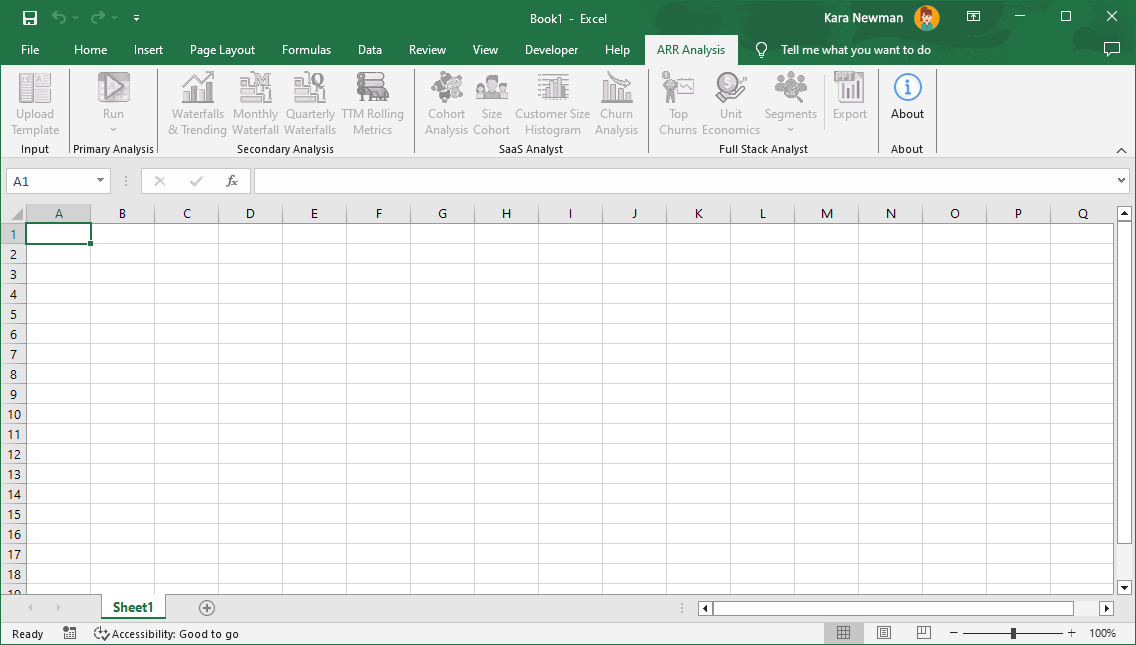
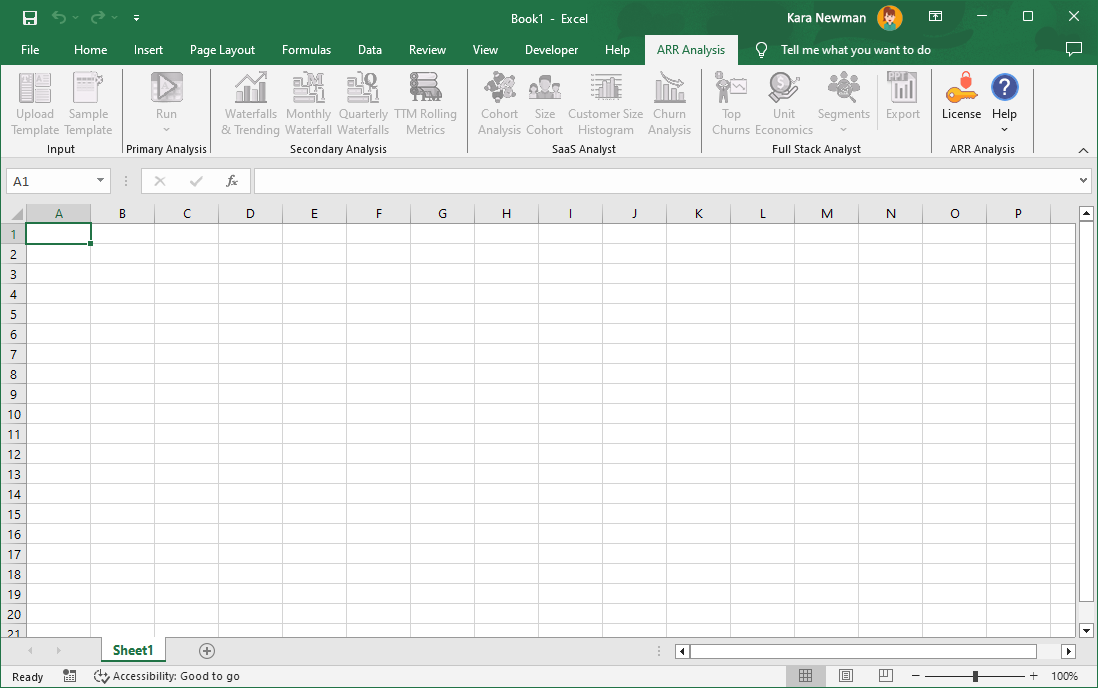
Implemented UsingExcelAddin Help Center page

diff --git a/website/src/components/help-center/zz-pages/UseExcelAddin/index.js b/website/src/components/help-center/zz-pages/UseExcelAddin/index.js
@@ -1,9 +1,299 @@
+'use client';
+
+import Image from 'next/image';
+import useZoomableImage from '@/utils/client/useZoomableImage';
+import { helpPages, HelpPageIndex } from '@/utils/help-pages';
+// Components
+import ImageViewer from '@/components/help-center/ImageViewer';
+import Subtopics from '@/components/help-center/Subtopics';
+// Images
+import imgAddInActivated from  '@/../public/help-center/usage/Excel-Addin-Activated.png';
+import imgInputGroup from  '@/../public/help-center/usage/Input-Group.png';
+import imgSampleTemplateDialog from '@/../public/help-center/usage/Sample-Template-Dialog.png';
+import imgPrimaryAnalysisGroup from '@/../public/help-center/usage/Primary-Analysis-Group.png';
+import imgRunExpanded from '@/../public/help-center/usage/Run-Expanded.png';
+import imgExcelPrimaryAnalysis from '@/../public/help-center/usage/Excel-Primary-Analysis.png';
+import imgSecondaryAnalysisGroup from '@/../public/help-center/usage/Secondary-Analysis-Group.png';
+import imgWaterfallTable from '@/../public/help-center/usage/Waterfall-Table.png';
+import imgExcelSecondaryTTM from '@/../public/help-center/usage/Excel-Secondary-TTM.png';
+import imgExcelSecondaryTtmGraph from '@/../public/help-center/usage/Excel-Secondary-TTM-Graph.png';
+import imgSaaSAnalystGroup from '@/../public/help-center/usage/SaaS-Analyst-Group.png';
+import imgExcelSaaSCohortAnalysis from '@/../public/help-center/usage/Excel-SaaS-Cohort-Analysis.png';
+import imgExcelSaaSSizeCohort from '@/../public/help-center/usage/Excel-SaaS-Size-Cohort.png';
+import imgExcelSaaSCustomerSizeHistogram from '@/../public/help-center/usage/Excel-SaaS-Customer-Size-Histogram.png';
+import imgExcelSaaSChurnAnalysis from '@/../public/help-center/usage/Excel-SaaS-Churn-Analysis.png';
+import imgExcelSaaSChurnGraph from '@/../public/help-center/usage/Excel-SaaS-Churn-Graph.png';
+import imgFullStackAnalystGroup from '@/../public/help-center/usage/Full-Stack-Analyst-Group.png';
+import imgExcelFullStackTopChurns from '@/../public/help-center/usage/Excel-FullStack-Top-Churns.png';
+import imgExcelFullStackUnitEconomics from '@/../public/help-center/usage/Excel-FullStack-Unit-Economics.png';
+import imgSegmentsExpanded from '@/../public/help-center/usage/Segments-Expanded.png';
+import imgExcelFullStackSegment from '@/../public/help-center/usage/Excel-FullStack-Segment.png';
+import imgArrAnalysisGroup from '@/../public/help-center/usage/ARR-Analysis-Group.png';
+// Styles
+import styles from '../common.module.scss';
+
+
 const UseExcelAddinPage = () => {
+  const [image, setImage] = useZoomableImage();
+
   return (
-    <div>
-      Using the ARR Analysis Excel Add-in Page
-    </div>
+    <section className={styles.main}>
+      <article className={styles.full}>
+        <h1>Using the ARR Analysis Excel Add-in</h1>
+        <p>This page explains how to use the <strong>ARR Analysis Excel Add-in</strong> to analyze annual recurring revenue (ARR) and related SaaS metrics.</p>
+        <p>The add-in appears in Excel as a ribbon with six groups of features. Each group contains buttons that generate reports, visualizations, and analyses from your ARR data.</p>
+        <p>You can also refer to the <strong>usage video</strong> availble here:</p>
+        <Subtopics topics={[helpPages.indexer[HelpPageIndex.HelpCenter]]} />
+        <hr />
+        <h2>1. Open Excel and Access the Add-in</h2>
+        <ul>
+          <li>Launch Excel and open a workbook.</li>
+          <li>Ensure the ARR Analysis Add-in is installed — it appears as a dedicated ribbon tab at the top of Excel.</li>
+        </ul>
+        <Image className={styles.clickableImage}
+               style={{ width: 'min(700px, 100%)' }}
+               src={imgAddInActivated}
+               alt="Excel with Add-in activated"
+               priority
+               onClick={() => setImage({ img: imgAddInActivated, alt: 'Excel with Add-in activated' })} />
+        <hr />
+        <h2>2. Input</h2>
+        <Image className={styles.clickableImage}
+               style={{ maxWidth: '100%' }}
+               src={imgInputGroup}
+               alt="Input Group"
+               onClick={() => setImage({ img: imgInputGroup, alt: 'Input Group' })} />
+        <ul>
+          <li><strong className={styles.more}>Upload Template</strong> – Upload a prepared Excel template file with ARR data (by customer and month).</li>
+          <li><strong className={styles.more}>Sample Template</strong> – Generate a sample template pre-filled with fake data, which helps you understand the required format for your real data.</li>
+        </ul>
+        <p>When generating a sample template, a dialog will appear with the following options:</p>
+        <ul>
+          <li>Number of rows of fake data</li>
+          <li>Number of months of ARR data per row</li>
+          <li>Maximum number of HQ countries to include (useful to avoid performance issues from too many country-based segments)</li>
+          <li>Option to simulate missing data: you can choose a percentage of missing values in columns like <em>Company Size</em>, <em>Employees</em>, <em>HQ Country</em>, <em>Region</em>, <em>Channel</em>.</li>
+        </ul>
+        <p>You can use this sample file as a guide by replacing the fake data with your real data.</p>
+        <Image className={styles.clickableImage}
+               style={{ width: 'min(500px, 100%)' }}
+               src={imgSampleTemplateDialog}
+               alt="Generate Sample Template Dialog"
+               onClick={() => setImage({ img: imgSampleTemplateDialog, alt: 'Generate Sample Template Dialog' })} />
+        <hr />
+        <h2>3. Primary Analysis</h2>
+        <Image className={styles.clickableImage}
+               style={{ maxWidth: '100%' }}
+               src={imgPrimaryAnalysisGroup}
+               alt="Primary Analysis Group"
+               onClick={() => setImage({ img: imgPrimaryAnalysisGroup, alt: 'Primary Analysis Group' })} />
+        <ul>
+          <li>
+            <div><strong className={styles.more}>Run</strong> – Generates sheets with four standard overviews:</div>
+            <ul>
+              <li>Annual</li>
+              <li>LTM (Last Twelve Months)</li>
+              <li>Monthly</li>
+              <li>Quarterly</li>
+            </ul>
+          </li>
+          <li>
+            <div>Use the dropdown on the Run button to run a single analysis (e.g., just Quarterly) instead of all four.</div>
+            <Image className={styles.clickableImage}
+                   style={{ maxWidth: '100%' }}
+                   src={imgRunExpanded}
+                   alt="Primary Analysis - Expanded"
+                   onClick={() => setImage({ img: imgRunExpanded, alt: 'Primary Analysis - Expanded' })} />
+          </li>
+        </ul>
+        <p>These analyses calculate new ARR, upsell, downsell, and churn. They also generate customer rankings and cohort analyses.</p>
+        <Image className={styles.clickableImage}
+               style={{ width: 'min(600px, 100%)' }}
+               src={imgExcelPrimaryAnalysis}
+               alt="Excel, Primary Analysis"
+               onClick={() => setImage({ img: imgExcelPrimaryAnalysis, alt: 'Excel, Primary Analysis' })} />
+        <hr />
+        <h2>4. Secondary Analysis</h2>
+        <Image className={styles.clickableImage}
+               style={{ maxWidth: '100%' }}
+               src={imgSecondaryAnalysisGroup}
+               alt="Secondary Analysis Group"
+               onClick={() => setImage({ img: imgSecondaryAnalysisGroup, alt: 'Secondary Analysis Group' })} />
+        <ul>
+          <li>
+            <div><strong className={styles.more}>Waterfalls &amp; Trending</strong>– Generates waterfall analyses:</div>
+            <ul>
+              <li>ARR over time (annual)</li>
+              <li>Logo waterfall</li>
+              <li>Gross and net retention</li>
+              <li>New bookings and churn</li>
+            </ul>
+            <Image className={styles.clickableImage}
+                   style={{ width: 'min(300px, 100%)' }}
+                   src={imgWaterfallTable}
+                   alt="Waterfall Table"
+                   onClick={() => setImage({ img: imgWaterfallTable, alt: 'Waterfall Table' })} />
+          </li>
+          <li>
+            <div>You can also create rolling analyses for Monthly, Quarterly, and Trailing Twelve Months (TTM), including:</div>
+            <ul>
+              <li>Net and gross dollar retention</li>
+              <li>Net new bookings</li>
+              <li>ARR growth</li>
+              <li>Logo growth and churn</li>
+              <li>CAGR metrics</li>
+            </ul>
+            <Image className={styles.clickableImage}
+                   style={{ width: 'min(600px, 100%)' }}
+                   src={imgExcelSecondaryTTM}
+                   alt="Excel, Secondary Analysis, TTM"
+                   onClick={() => setImage({ img: imgExcelSecondaryTTM, alt: 'Excel, Secondary Analysis, TTM' })} />
+          </li>
+        </ul>
+        <p>The TTM Metrics sheet also includes automatically generated charts for quick visualization.</p>
+        <Image className={styles.clickableImage}
+               style={{ width: 'min(600px, 100%)' }}
+               src={imgExcelSecondaryTtmGraph}
+               alt="Excel, Secondary Analysis, TTM Graph"
+               onClick={() => setImage({ img: imgExcelSecondaryTtmGraph, alt: 'Excel, Secondary Analysis, TTM Graph' })} />
+        <hr />
+        <h2>5. SaaS Analyst</h2>
+        <Image className={styles.clickableImage}
+               style={{ maxWidth: '100%' }}
+               src={imgSaaSAnalystGroup}
+               alt="SaaS Analyst Group"
+               onClick={() => setImage({ img: imgSaaSAnalystGroup, alt: 'SaaS Analyst Group' })} />
+        <p>This tier enables deeper analysis of customer size distributions, churn, and retention.</p>
+        <ul>
+          <li>
+            <div><strong className={styles.more}>Cohort Analysis</strong> – Generates quarterly cohort performance and retention metrics.</div>
+            <Image className={styles.clickableImage}
+                   style={{ width: 'min(600px, 100%)' }}
+                   src={imgExcelSaaSCohortAnalysis}
+                   alt="Excel, SaaS, Cohort Analysis"
+                   onClick={() => setImage({ img: imgExcelSaaSCohortAnalysis, alt: 'Excel, SaaS, Cohort Analysis' })} />
+          </li>
+          <li>
+            <div><strong className={styles.more}>Size Cohort</strong> – Shows customer size distribution and ARR contribution, with table + chart outputs.</div>
+            <Image className={styles.clickableImage}
+                   style={{ width: 'min(600px, 100%)' }}
+                   src={imgExcelSaaSSizeCohort}
+                   alt="Excel, SaaS, Size Cohort"
+                   onClick={() => setImage({ img: imgExcelSaaSSizeCohort, alt: 'Excel, SaaS, Size Cohort' })} />
+          </li>
+          <li>
+            <div><strong className={styles.more}>Customer Size Histogram</strong> – Displays ARR distribution as a histogram.</div>
+            <Image className={styles.clickableImage}
+                   style={{ width: 'min(600px, 100%)' }}
+                   src={imgExcelSaaSCustomerSizeHistogram}
+                   alt="Excel, SaaS, Customer Size Histogram"
+                   onClick={() => setImage({ img: imgExcelSaaSCustomerSizeHistogram, alt: 'Excel, SaaS, Customer Size Histogram' })} />
+          </li>
+          <li>
+            <div><strong className={styles.more}>Churn Analysis</strong> – Analyzes churn by tenure (months before churn). Includes tables and charts showing average retention over time.</div>
+            <Image className={styles.clickableImage}
+                   style={{ width: 'min(600px, 100%)' }}
+                   src={imgExcelSaaSChurnAnalysis}
+                   alt="Excel, SaaS, Churn Analysis"
+                   onClick={() => setImage({ img: imgExcelSaaSChurnAnalysis, alt: 'Excel, SaaS, Churn Analysis' })} />
+            <div>The add-in will also generate a table and graph to show churn by tenure on average for individual months, allowing the analyst to assess how a company retains over time, on average.</div>
+            <Image className={styles.clickableImage}
+                   style={{ width: 'min(600px, 100%)' }}
+                   src={imgExcelSaaSChurnGraph}
+                   alt="Excel, SaaS, Churn Graph"
+                   onClick={() => setImage({ img: imgExcelSaaSChurnGraph, alt: 'Excel, SaaS, Churn Graph' })} />
+          </li>
+        </ul>
+        <hr />
+        <h2>6. Full Stack Analyst</h2>
+        <Image className={styles.clickableImage}
+               style={{ maxWidth: '100%' }}
+               src={imgFullStackAnalystGroup}
+               alt="Full Stack Analyst Group"
+               onClick={() => setImage({ img: imgFullStackAnalystGroup, alt: 'Full Stack Analyst Group' })} />
+        <ul>
+          <li>
+            <div><strong className={styles.more}>Top Churns</strong> – Lists the largest churned customers, including:</div>
+            <ul>
+              <li>Customer name</li>
+              <li>ARR size</li>
+              <li>Churn amount</li>
+              <li>Customer tenure</li>
+            </ul>
+            <Image className={styles.clickableImage}
+                   style={{ width: 'min(600px, 100%)' }}
+                   src={imgExcelFullStackTopChurns}
+                   alt="Excel, FullStack, Top Churns"
+                   onClick={() => setImage({ img: imgExcelFullStackTopChurns, alt: 'Excel, FullStack, Top Churns' })} />
+          </li>
+          <li>
+            <div><strong className={styles.more}>Unit Economics</strong> – Calculates:</div>
+            <ul>
+              <li>Lifetime Value (LTV)</li>
+              <li>Customer lifetime</li>
+              <li>
+                <div>LTV/CAC ratio</div>
+                <div><em>(Requires rolling annual Sales & Marketing spend and monthly gross margin inputs)</em></div>
+              </li>
+            </ul>
+            <Image className={styles.clickableImage}
+                   style={{ width: 'min(600px, 100%)' }}
+                   src={imgExcelFullStackUnitEconomics}
+                   alt="Excel, FullStack, Unit Economics"
+                   onClick={() => setImage({ img: imgExcelFullStackUnitEconomics, alt: 'Excel, FullStack, Unit Economics' })} />
+          </li>
+          <li>
+            <div><strong className={styles.more}>Segments</strong> – Runs ARR analysis by segments (e.g., industry, region, product).</div>
+            <Image className={styles.clickableImage}
+                   style={{ maxWidth: '100%' }}
+                   src={imgSegmentsExpanded}
+                   alt="Segments - Expanded"
+                   onClick={() => setImage({ img: imgSegmentsExpanded, alt: 'Segments - Expanded' })} />
+            <p>Generates:</p>
+            <ul>
+              <li>Segment-specific waterfalls and trending</li>
+              <li>ARR and logo counts by segment</li>
+              <li>Rolling (Quarterly/TTM) waterfalls per segment</li>
+              <li>Customer size distributions by segment</li>
+            </ul>
+            <Image className={styles.clickableImage}
+                   style={{ width: 'min(600px, 100%)' }}
+                   src={imgExcelFullStackSegment}
+                   alt="Excel, FullStack, Segment"
+                   onClick={() => setImage({ img: imgExcelFullStackSegment, alt: 'Excel, FullStack, Segment' })} />
+          </li>
+          <li><strong className={styles.more}>Export</strong>– Exports generated analyses into a ready-to-use PowerPoint presentation.</li>
+        </ul>
+        <hr />
+        <h2>7. ARR Analysis Group</h2>
+        <Image className={styles.clickableImage}
+               style={{ maxWidth: '100%' }}
+               src={imgArrAnalysisGroup}
+               alt="ARR Analysis Group"
+               onClick={() => setImage({ img: imgArrAnalysisGroup, alt: 'ARR Analysis Group' })} />
+        <ul>
+          <li><strong className={styles.more}>License</strong> – Activate or manage your license.</li>
+          <li><strong className={styles.more}>Help Center</strong> – Open the online documentation.</li>
+          <li><strong className={styles.more}>About</strong> – View version information about the add-in.</li>
+        </ul>
+        <hr />
+        <h2>Cautionary Notes</h2>
+        <ul>
+          <li>Make sure the uploaded template contains accurate and up-to-date data.</li>
+          <li>Some features are only available depending on your subscription tier.</li>
+        </ul>
+        <hr />
+        <h2>Tips for Efficiency</h2>
+        <ul>
+          <li>Familiarize yourself with the ribbon layout to quickly find the tools you need.</li>
+          <li>Use Excel keyboard shortcuts to work faster.</li>
+          <li>Save your work regularly to avoid data loss.</li>
+        </ul>
+        <ImageViewer image={image?.img} alt={image?.alt} notifyClosed={() => setImage(null)} />
+      </article>
+    </section>
   );
 };
+
 
 export default UseExcelAddinPage;

diff --git a/website/src/utils/help-pages.js b/website/src/utils/help-pages.js
@@ -21,6 +21,7 @@ const HelpPageIndex = {
 const _helpPages = {
   url: 'help-center',
   title: 'Help Center',
+  sublink_desc: 'Comprehensive guides for managing accounts, subscriptions, and the ARR Analysis Excel Add-in.',
   index: HelpPageIndex.HelpCenter,
   children: [
     {

diff --git a/website/src/components/help-center/zz-pages/ActivateExcelAddin/index.js b/website/src/components/help-center/zz-pages/ActivateExcelAddin/index.js
@@ -19,6 +19,7 @@ import styles from '../common.module.scss';
 
 const ActivateExcelAddinPage = () => {
   const [image, setImage] = useZoomableImage();
+
   return (
     <section className={styles.main}>
       <article className={styles.full}>
